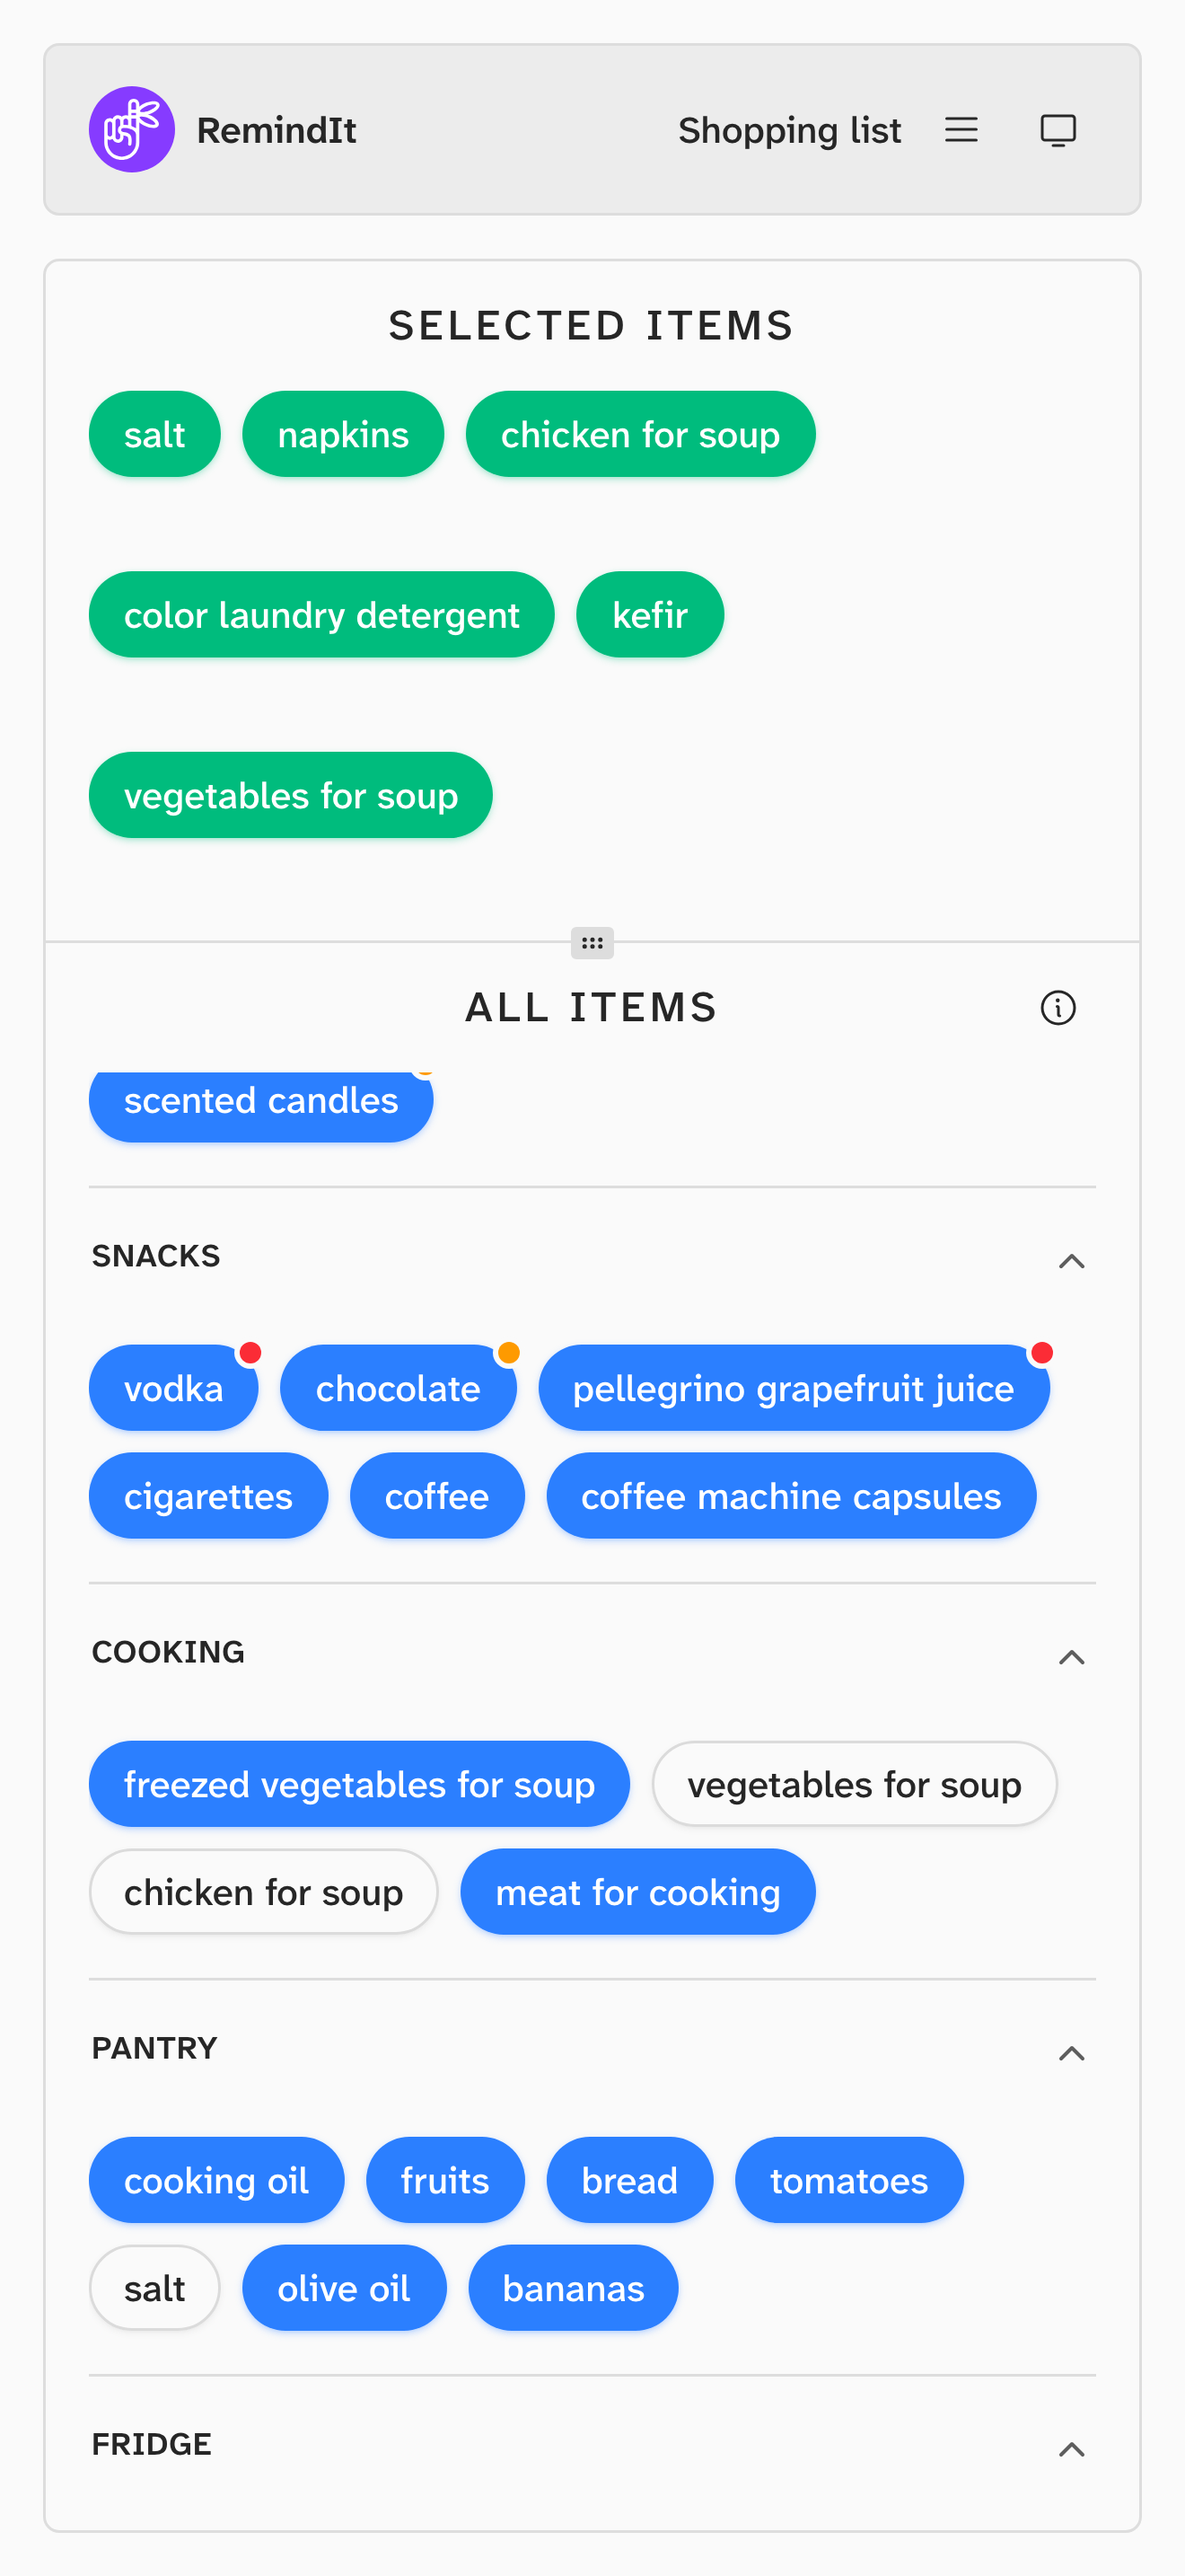
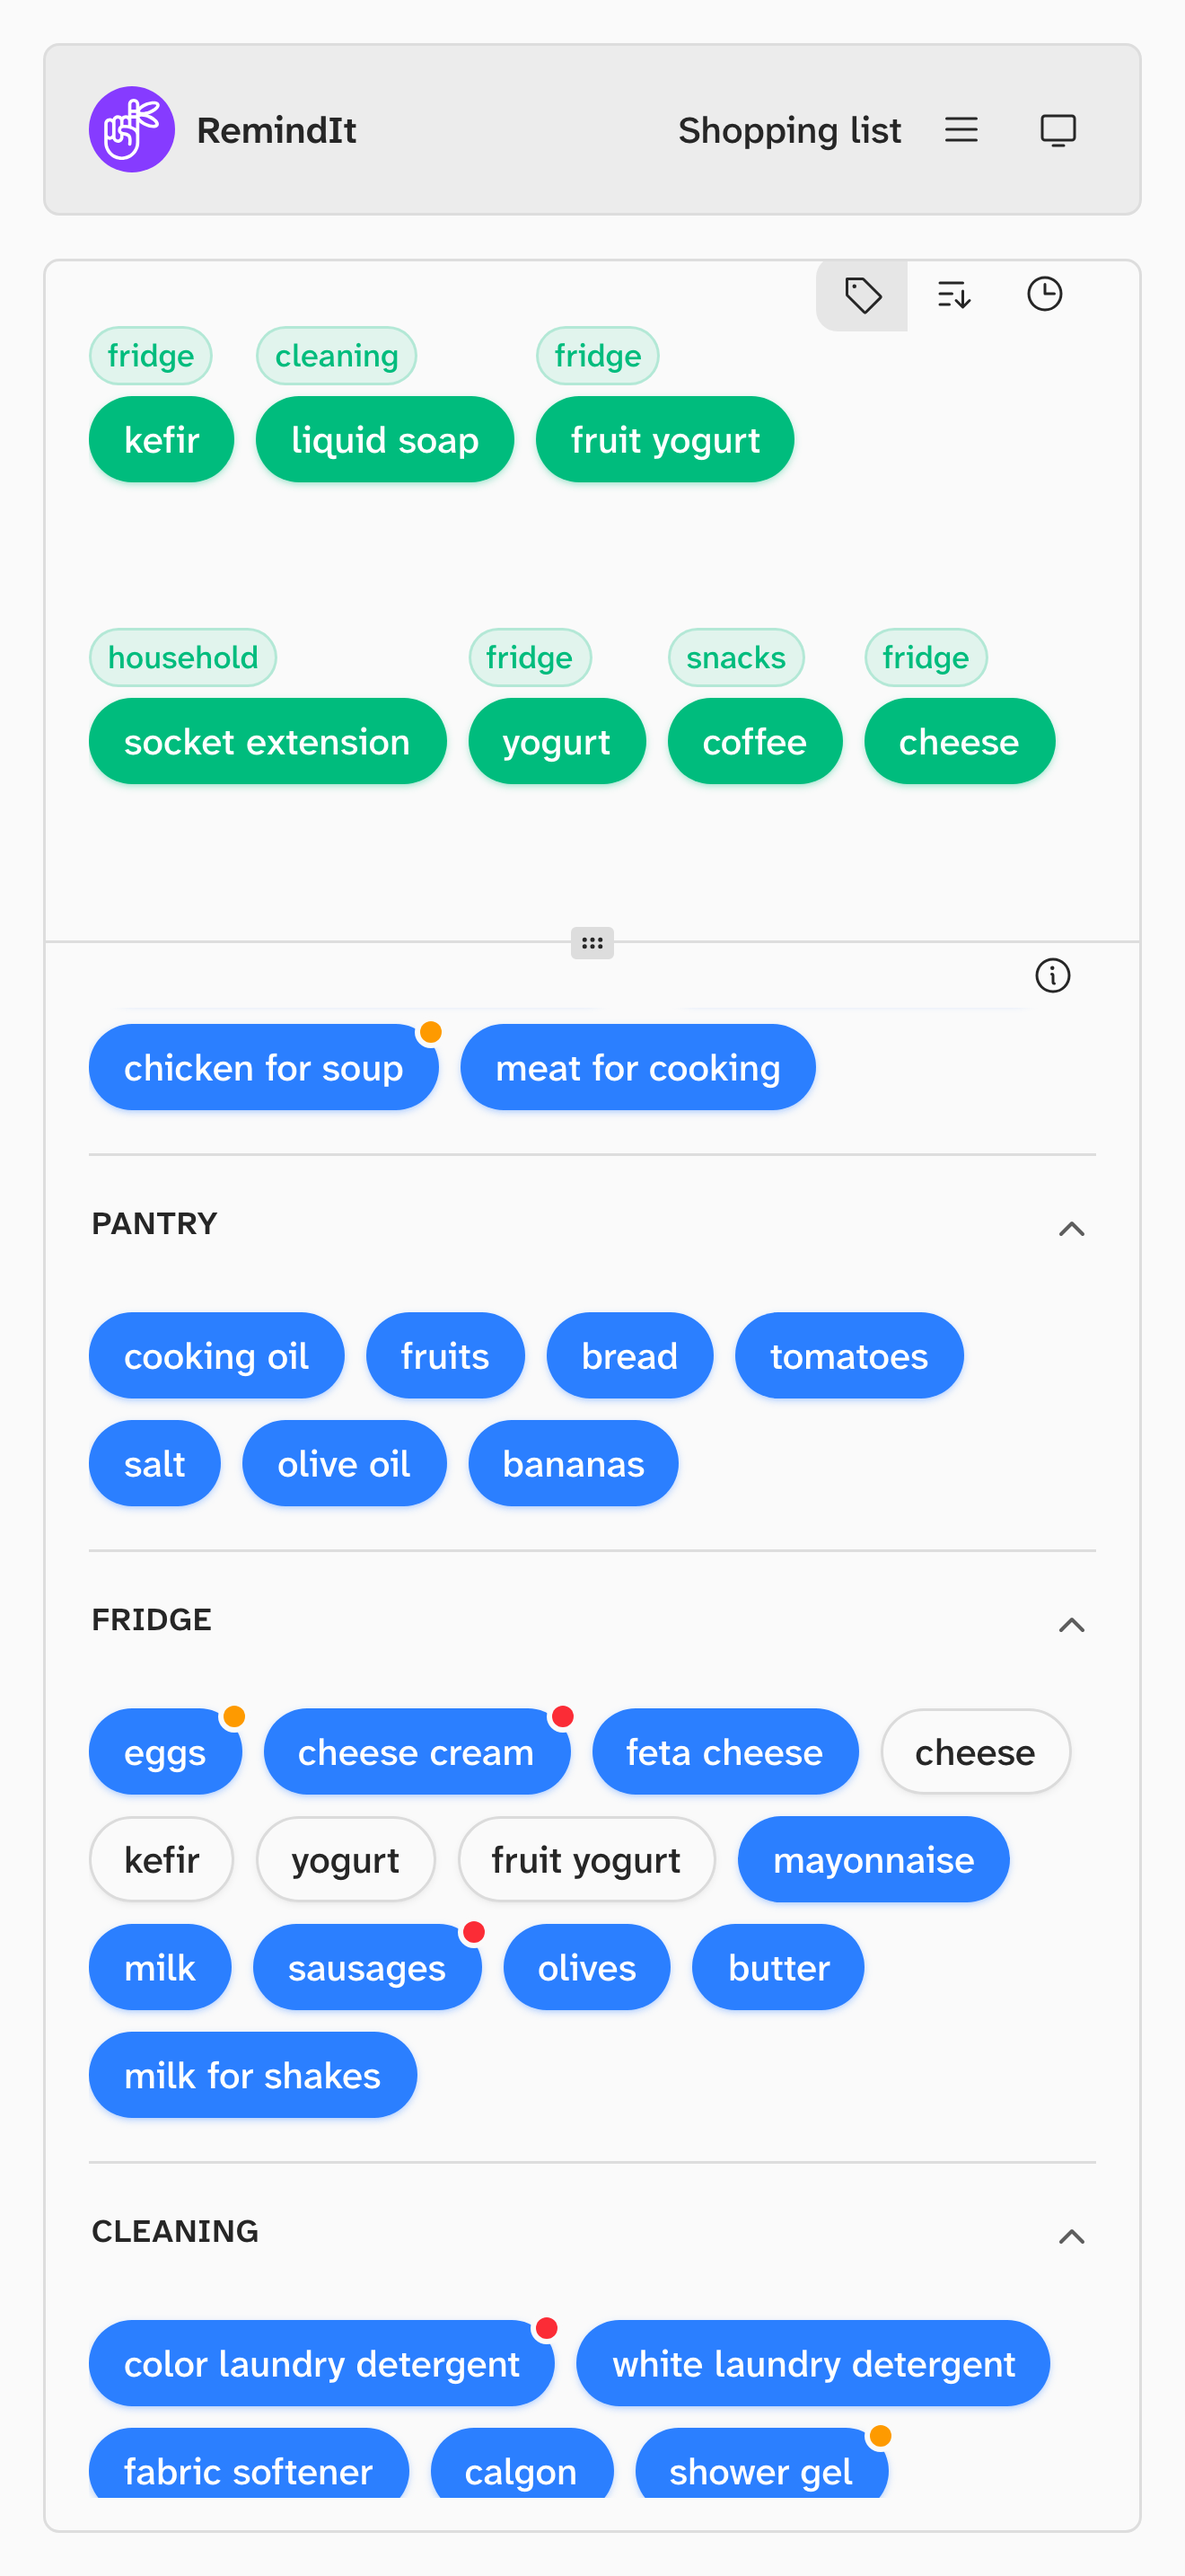
chore: bump version to 1.3.0 and add changelog

diff --git a/CHANGELOG.md b/CHANGELOG.md
@@ -6,6 +6,24 @@ All notable changes to Remindit will be documented in this file.
 
 ---
 
+## v1.3.0 — 2026-08-26
+
+_Catalog editing, sorting, and a built-in changelog arrive — plus your panel and list preferences are now remembered._
+
+### ✨ New Features
+
+- **Manage Your Catalog**: Add, edit, and delete catalog items and categories on the Catalog page. Deleting a category moves its items to "Uncategorized"; deleting an item also removes it from your active list
+- **Ordering Controls**: In the shopping list, toggle category grouping and sort by category/name or by most recently added — your choice is remembered
+- **Category Badges**: Items in your shopping list now show a colour-coded category badge above the name
+- **Reset & Reseed**: From Settings, reset the app or reseed it from the selected demo dataset
+- **Changelog Page**: A new in-app Changelog (linked from the footer version and the About page) shows what's new at a glance
+
+### 🔧 Improvements
+
+- **Remembered Panel State**: The open/closed state of category accordions in the catalog is now saved across reloads
+
+---
+
 ## v1.2.0 — 2026-08-25
 
 _Recommendations arrive! Remindit now learns from your shopping history to suggest what you'll likely need next, plus a round of polish and new help content._
